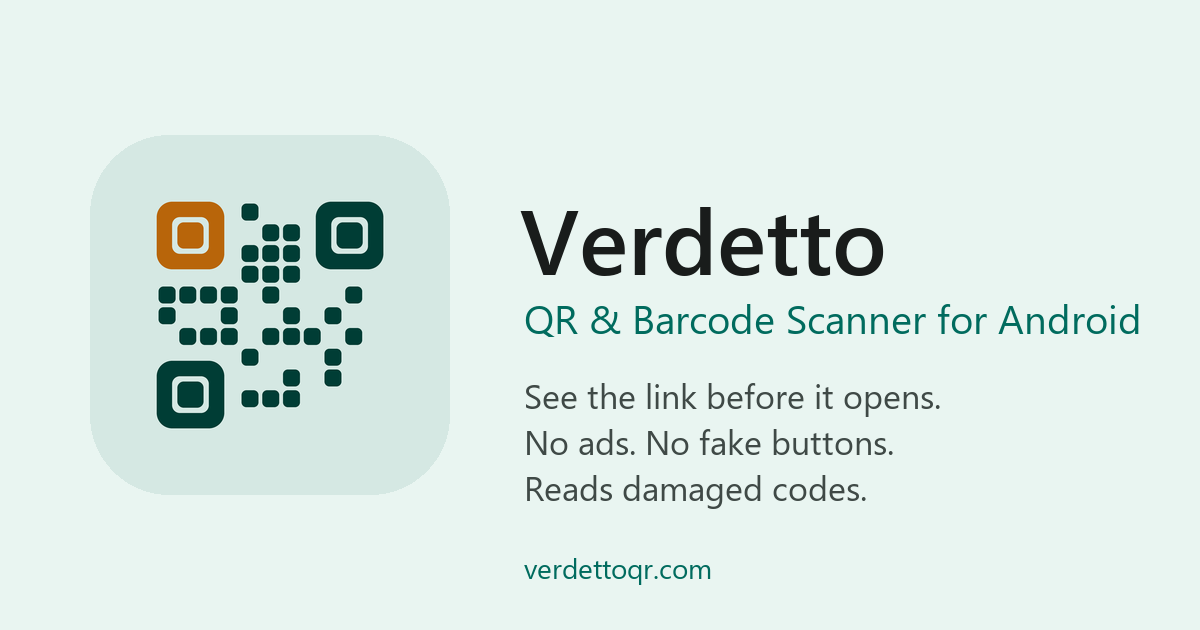
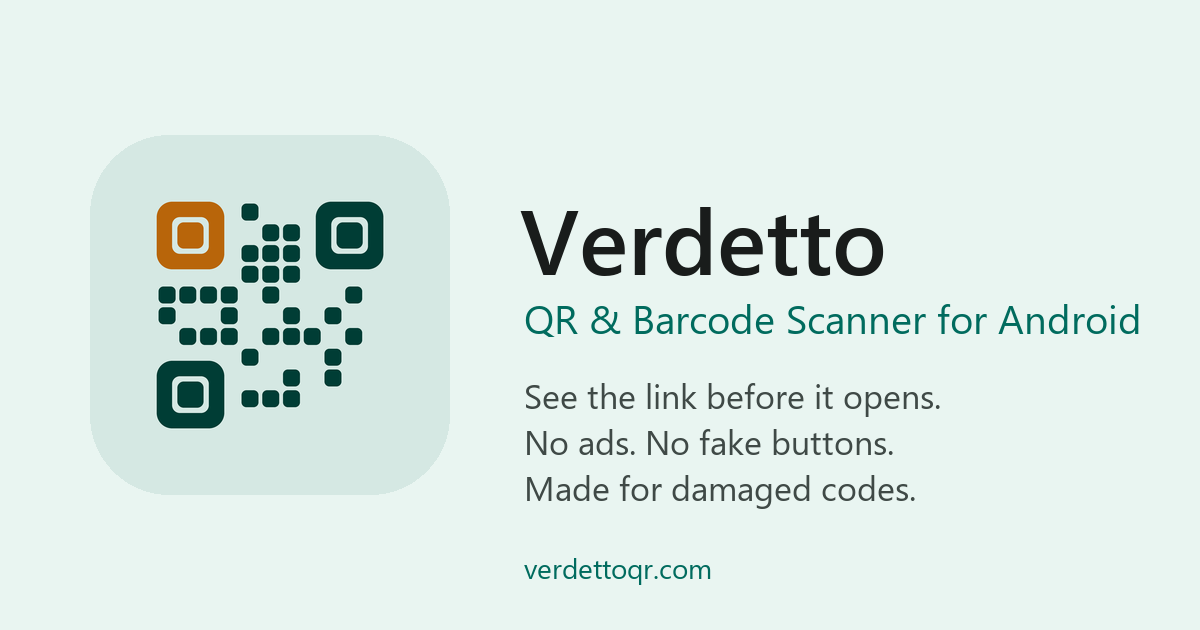
Share image says Made for damaged codes, the same sentence as everywhere else

Changed region(s): [[0.4317, 0.754, 0.7708, 0.8143]]

diff --git a/assets.py b/assets.py
@@ -53,7 +53,7 @@ og.paste(mark, (90, 135), mark)
 d = ImageDraw.Draw(og)
 d.text((520, 175), "Verdetto", font=font("seguisb.ttf", 92), fill=INK)
 d.text((524, 290), "QR & Barcode Scanner for Android", font=font("segoeui.ttf", 40), fill=TEAL)
-for i, line in enumerate(("See the link before it opens.", "No ads. No fake buttons.", "Reads damaged codes.")):
+for i, line in enumerate(("See the link before it opens.", "No ads. No fake buttons.", "Made for damaged codes.")):
     d.text((524, 372 + 46 * i), line, font=font("segoeui.ttf", 34), fill=VARIANT)
 d.text((524, 548), "verdettoqr.com", font=font("segoeui.ttf", 28), fill=TEAL)
 og.save(HERE / "og-image.png", optimize=True)
